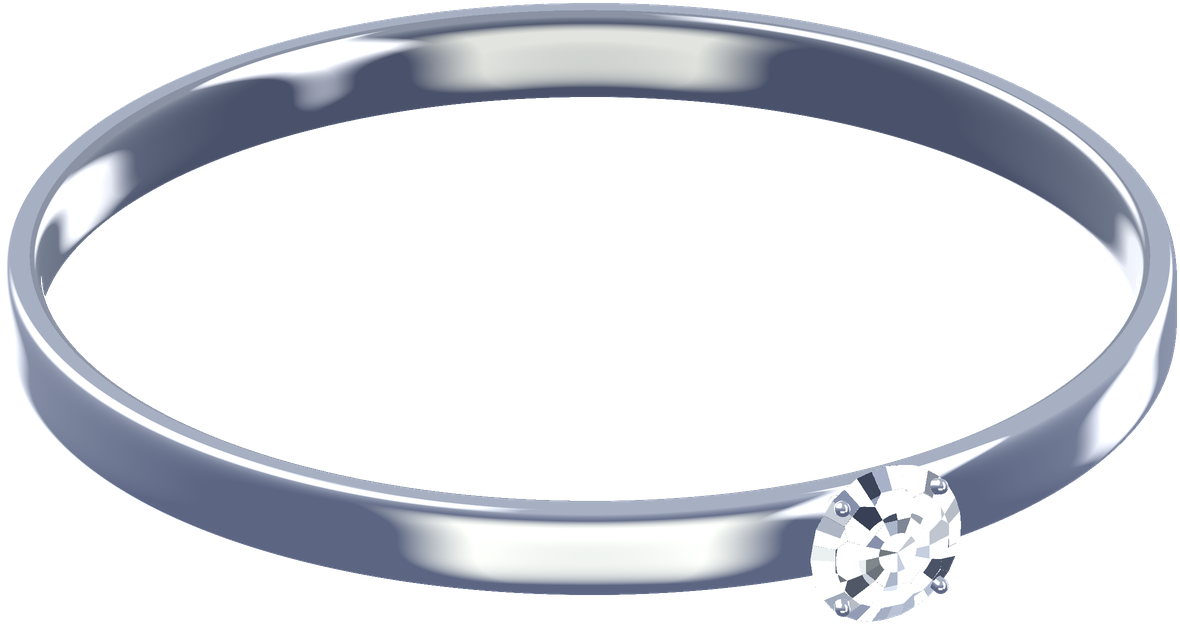
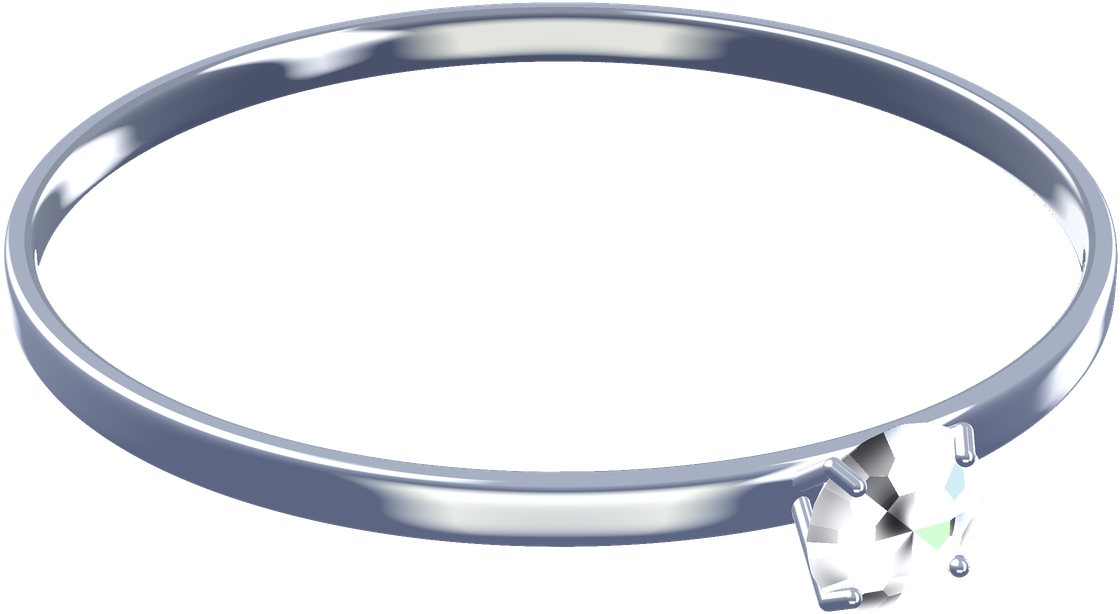
Hero: anillo solitario más realista (banda fina, piedra elevada, garras, perspectiva)
Claude-Session: https://claude.ai/code/session_016PX9yqKUuzDfX6ugxbTgAZ

Changed region(s): [[0.0, 0.0, 1.0, 1.0]]

diff --git a/herramientas/anillo-prueba.py b/herramientas/anillo-prueba.py
@@ -6,10 +6,10 @@ from PIL import Image
 salida, muestra = sys.argv[1], sys.argv[2]
 N, S = 1500, 2
 W = N * S
-xs = np.linspace(-1.32, 1.32, W)
+xs = np.linspace(-1.4, 1.4, W)
 X, Y = np.meshgrid(xs, -xs)
 R = 1.0
-ancho, grosor = 0.085, 0.034
+ancho, grosor = 0.062, 0.03   # banda más fina, como un solitario
 tilt = np.radians(-26)                       # visto un poco desde arriba: el lado cercano queda abajo
 ct, st = np.cos(tilt), np.sin(tilt)
 
@@ -19,8 +19,8 @@ def local(px, py, pz):
 # ——— Circón ———
 phi = np.radians(28)                          # posición sobre la banda (un poco a la derecha del frente)
 u = np.array([np.sin(phi), 0.0, np.cos(phi)])  # eje de la piedra = hacia afuera de la banda
-rg = 0.15                                     # radio del filetín
-centro = u * (R + grosor + 0.075)
+rg = 0.17                                     # radio del filetín (piedra grande, como un solitario)
+centro = u * (R + grosor + 0.13)   # piedra elevada sobre la canastica de garras
 # base ortonormal alrededor del eje de la piedra
 e1 = np.array([0.0, 1.0, 0.0]); e2 = np.cross(u, e1)
 def planos(n, inclinacion, offset):
@@ -50,12 +50,14 @@ def sdf_circon(lx, ly, lz):
 
 # garras: 4 cápsulas desde la banda hasta el borde de la piedra
 garras = []
+tang = np.array([np.cos(phi), 0.0, -np.sin(phi)])   # dirección a lo largo de la banda
 for k in range(4):
     a = np.pi / 4 + k * np.pi / 2
     lat = np.cos(a) * e1 + np.sin(a) * e2
-    arriba = centro + lat * rg * 0.92 + u * 0.022
-    abajo = u * (R + grosor * 0.6) + lat * rg * 0.5
-    garras.append((abajo, arriba))
+    pie = u * (R + grosor * 0.5) + np.sign(np.dot(lat, tang) + 1e-6) * tang * rg * 0.45 + lat * rg * 0.15
+    filete = centro + lat * rg * 1.03
+    punta = centro + lat * rg * 0.86 + u * (mesa_h * 0.75)
+    garras.append((pie, filete)); garras.append((filete, punta))
 def sdf_capsula(lx, ly, lz, a, b, r):
     pa = np.stack([lx - a[0], ly - a[1], lz - a[2]]); ba = (b - a)[:, None]
     hh = np.clip((pa * ba).sum(0) / (ba * ba).sum(), 0, 1)
@@ -69,27 +71,34 @@ def sdf_todo(px, py, pz):
     banda = ((np.abs(q) / grosor)**k + (np.abs(ly) / ancho)**k)**(1 / k) - 1
     banda = banda * min(grosor, ancho) * 0.9
     piedra = sdf_circon(lx, ly, lz)
-    garra = np.min([sdf_capsula(lx, ly, lz, a, b, 0.014) for a, b in garras], axis=0)
+    garra = np.min([sdf_capsula(lx, ly, lz, a, b, 0.017) for a, b in garras], axis=0)
     metal = np.minimum(banda, garra)
     return np.minimum(metal, piedra), (piedra < metal)
 
-# marcha de rayos solo sobre los rayos activos (más rápido)
-ox, oy = X.ravel(), Y.ravel(); t = np.zeros_like(ox); hit = np.zeros(ox.shape, bool); vivo = np.ones(ox.shape, bool)
-for i in range(320):
+# cámara con perspectiva (como una foto real): rayos que salen de un punto
+D = 7.0
+ox0, oy0 = X.ravel(), Y.ravel()
+dl = np.sqrt(ox0**2 + oy0**2 + D**2)
+dx, dy, dz = ox0 / dl, oy0 / dl, -D / dl
+cam = np.array([0.0, 0.0, D])
+t = np.full(ox0.shape, D - 1.6); hit = np.zeros(ox0.shape, bool); vivo = np.ones(ox0.shape, bool)
+for i in range(360):
     idx = np.nonzero(vivo)[0]
     if idx.size == 0: break
-    d, _ = sdf_todo(ox[idx], oy[idx], 3.0 - t[idx])
+    d, _ = sdf_todo(cam[0] + dx[idx] * t[idx], cam[1] + dy[idx] * t[idx], cam[2] + dz[idx] * t[idx])
     t[idx] += d * 0.6
     h = d < 4e-5; hit[idx[h]] = True
-    vivo[idx[h | (t[idx] > 6)]] = False
+    vivo[idx[h | (t[idx] > D + 2)]] = False
 idx = np.nonzero(hit)[0]
-px, py, pz = ox[idx], oy[idx], 3.0 - t[idx]
+px, py, pz = cam[0] + dx[idx] * t[idx], cam[1] + dy[idx] * t[idx], cam[2] + dz[idx] * t[idx]
+vx, vy, vz = dx[idx], dy[idx], dz[idx]
 e = 3e-4
 f = lambda a, b, c: sdf_todo(a, b, c)[0]
 nx = f(px + e, py, pz) - f(px - e, py, pz); ny = f(px, py + e, pz) - f(px, py - e, pz); nz = f(px, py, pz + e) - f(px, py, pz - e)
 L = np.sqrt(nx**2 + ny**2 + nz**2) + 1e-12; nx /= L; ny /= L; nz /= L
 _, es_piedra = sdf_todo(px, py, pz)
-rx, ry, rz = 2 * nz * nx, 2 * nz * ny, -1 + 2 * nz * nz
+dn = vx * nx + vy * ny + vz * nz
+rx, ry, rz = vx - 2 * dn * nx, vy - 2 * dn * ny, vz - 2 * dn * nz
 
 hueso = np.array([251, 251, 244.]) / 255; noche = np.array([46, 65, 108.]) / 255
 profundo = np.array([35, 42, 68.]) / 255; perla = np.array([255, 253, 203.]) / 255
@@ -124,9 +133,9 @@ if g.any():
     qx, qy, qz = glx - centro[0], gly - centro[1], glz - centro[2]
     a1 = qx * e1[0] + qy * e1[1] + qz * e1[2]; a2 = qx * e2[0] + qy * e2[1] + qz * e2[2]
     az = np.arctan2(a2, a1); rr = np.sqrt(a1**2 + a2**2) / rg
-    sector = np.floor((az / (2 * np.pi) + 0.5) * 16)                 # 16 "flechas" simétricas, como un brillante
-    anillo = np.floor(rr * 4)
-    va = (sector + 0.5) * 2 * np.pi / 16
+    sector = np.floor((az / (2 * np.pi) + 0.5) * 8)                  # 8 "flechas" grandes, como un brillante
+    anillo = np.floor(rr * 2)
+    va = (sector + 0.5) * 2 * np.pi / 8
     vx = np.cos(va); vy = np.sin(va)
     ix = vx * 0.7 - rx[g] * 0.3; iy = vy * 0.7 - ry[g] * 0.3; iz = np.abs(rz[g]) * 0.6 + 0.4
     n_ = np.sqrt(ix**2 + iy**2 + iz**2); dentro = estudio(ix / n_, iy / n_, iz / n_)
@@ -134,10 +143,20 @@ if g.any():
     base = dentro * (1 - fres) * 1.2 + refl * fres
     fid = np.round(nx[g] * 9) * 131 + np.round(ny[g] * 9) * 17 + np.round(nz[g] * 9) * 7 + sector * 3.7 + anillo * 11.3
     rnd = (np.sin(fid * 12.9898) * 43758.5453) % 1.0
-    claro = rnd > 0.5; oscuro = rnd < 0.22
-    base[claro] = base[claro] * 0.35 + 1.3
-    base[oscuro] = base[oscuro] * 0.25 + noche * 0.2
-    tinte = np.where((rnd > 0.93)[:, None], perla[None, :] * 1.25, np.where(((rnd > 0.86) & (rnd <= 0.93))[:, None], np.array([0.82, 0.88, 1.0])[None, :] * 1.25, 1.0))
+    # brillo continuo con mucho contraste (curva en S) en vez de cuadritos blancos y negros
+    lum = base.mean(1)
+    var = 0.7 + 1.0 * rnd                                    # cada faceta refleja distinto (más luz: de lejos se ve blanca)
+    # degradado dentro de cada faceta (la luz nunca es pareja en una piedra real)
+    onda = 0.75 + 0.35 * np.cos(rr * 5.5 + az * 2.0) * np.cos(rr * 3.1 - az)
+    v = np.clip(lum * var * onda * 1.3, 0, 1.5)
+    v = v**2.2 / (v**2.2 + (1.05 - np.minimum(v, 1))**2.2 + 1e-6)
+    base = (v[:, None] * 1.25) * np.array([0.97, 0.98, 1.0])[None, :] + profundo[None, :] * 0.08
+    # "fuego": pocas chispitas de color
+    fuego = (rnd > 0.965)
+    hue = (rnd[fuego] - 0.955) / 0.045
+    espectro = np.stack([np.clip(1.6 - np.abs(hue * 6 - 1), 0, 1), np.clip(1.6 - np.abs(hue * 6 - 3), 0, 1), np.clip(1.6 - np.abs(hue * 6 - 5), 0, 1)], 1)
+    base[fuego] = espectro * 0.32 + 0.72                     # fuego sutil, casi pastel
+    tinte = np.where(((rnd > 0.9) & (rnd <= 0.955))[:, None], np.array([0.88, 0.92, 1.0])[None, :] * 1.1, 1.0)
     col[g] = base * tinte
 
 col = 1 - np.exp(-col * 1.25); col = np.clip(col / (1 - np.exp(-1.25)), 0, 1)

diff --git a/CLAUDE.md b/CLAUDE.md
@@ -46,7 +46,7 @@ Perpetuo es una marca colombiana de joyería (Medellín) en tres materiales que 
 - Evitar: nombres técnicos en mayúscula ("CADENA 5MM 60CM 6543"), fondo crema con dorados genéricos, plantilla banner → grilla → newsletter sin personalidad, morados/índigos por defecto.
 
 ## FOTOGRAFÍA
-- Hero: anillo que atraviesa el título (mitad detrás y mitad delante de las letras, flota suave). ✔ Anillo de prueba v3: banda plateada abombada + circón talla brillante con 4 garras (script en herramientas/anillo-prueba.py, tarda ~5 min). En computador el Hero cabe justo en la pantalla (alto de ventana menos encabezado). Hoy usa public/fotos/hero/anillo-prueba.png (aro liso de PRUEBA, generado solo para mostrar el efecto; no es un producto). Reemplazar por public/fotos/hero/anillo.png: foto real PNG sin fondo, anillo visto un poco desde arriba (óvalo), mínimo 1600 px.
+- Hero: anillo que atraviesa el título (mitad detrás y mitad delante de las letras, flota suave). ✔ Anillo de prueba v4 (solitario realista): banda fina, circón talla brillante elevado sobre 4 garras, cámara con perspectiva, contraste y fuego sutil (script en herramientas/anillo-prueba.py, tarda ~5 min). En computador el Hero cabe justo en la pantalla (alto de ventana menos encabezado). Hoy usa public/fotos/hero/anillo-prueba.png (aro liso de PRUEBA, generado solo para mostrar el efecto; no es un producto). Reemplazar por public/fotos/hero/anillo.png: foto real PNG sin fondo, anillo visto un poco desde arriba (óvalo), mínimo 1600 px.
 - Video del Hero ✔: vertical 9:16 generado con IA (Gemini) por la usuaria (original en material/videos/hero-original-gemini-3.mp4). Un solo archivo public/videos/hero.mp4 para todo: en celular casi a pantalla completa; en computador como columna vertical a la derecha con el título y el anillo a la izquierda sobre Azul Noche (estilo portada). Sin sonido. Ojo: las joyas del video no son piezas reales de Perpetuo; idealmente reemplazar antes del lanzamiento.
 Fotos con personalidad, luz natural, fondos lisos en la paleta, la mitad con la joya puesta. Si falta una foto: espacio con la proporción correcta y nota de dirección de arte. NUNCA dibujar joyas falsas con CSS.
 
